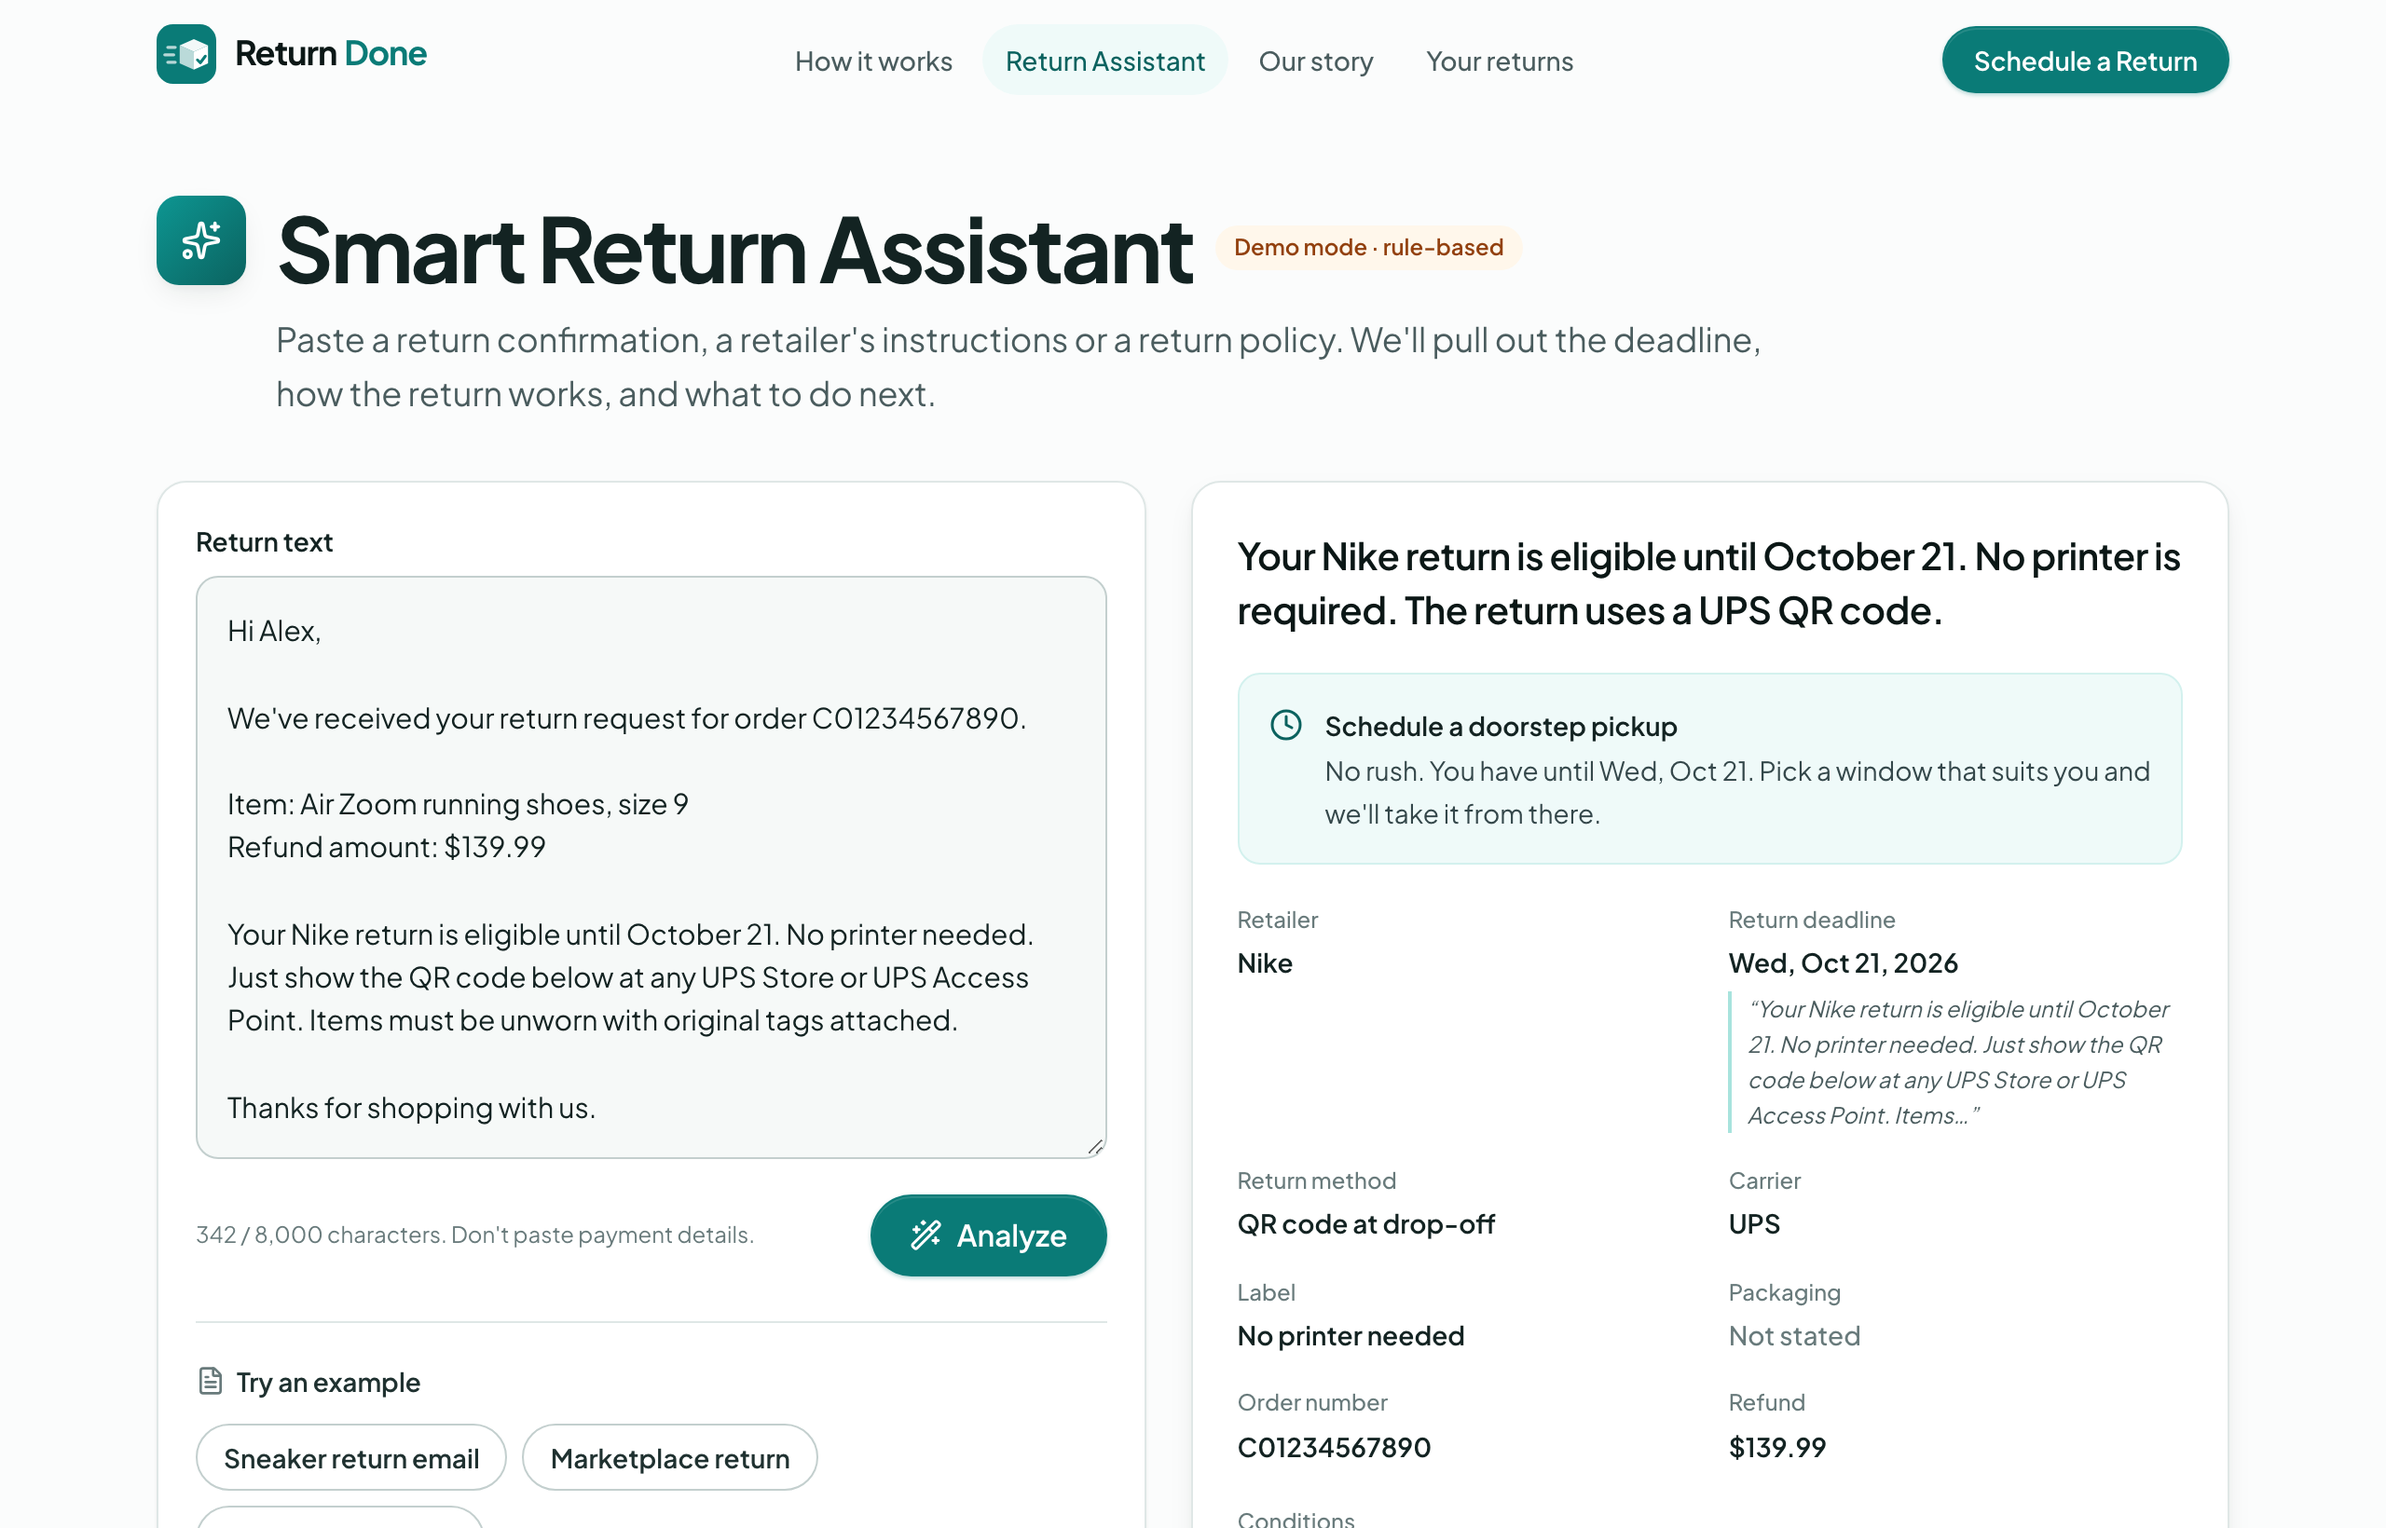
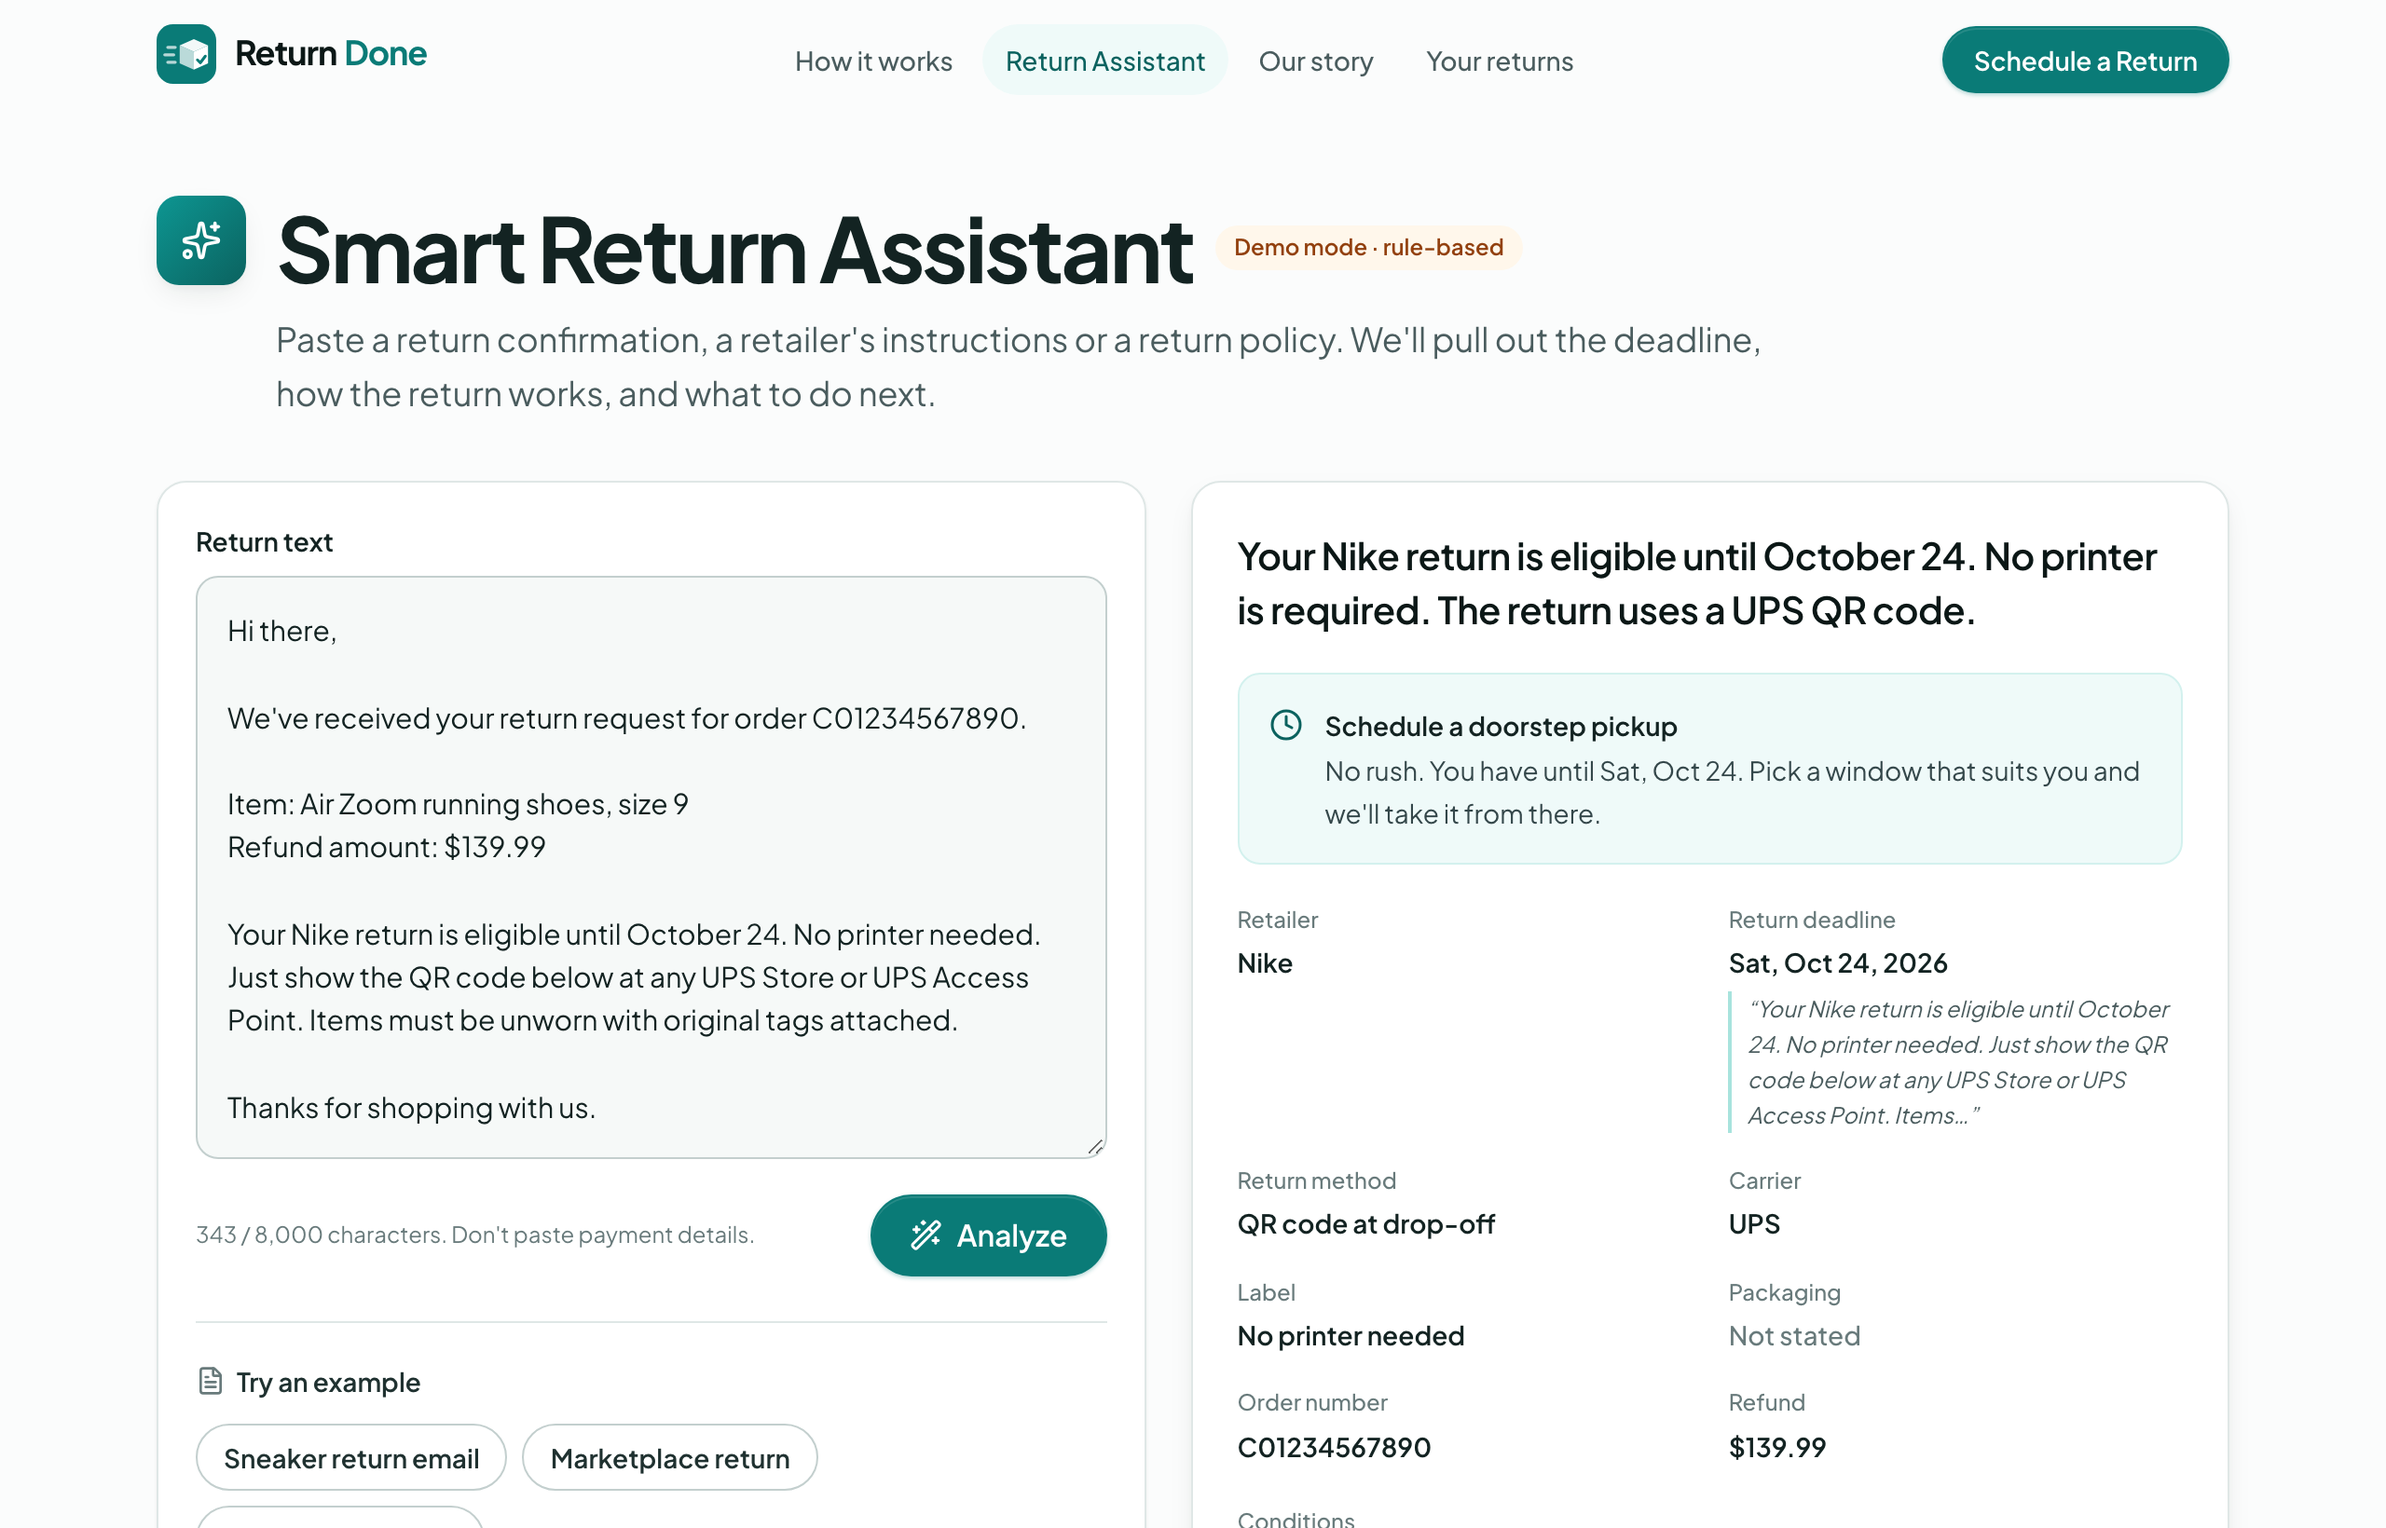
Remove placeholder names from the site, samples and tests
The demo dashboard greets "Welcome back", the assistant's sample email
opens "Hi there,", the hero preview shows a person icon instead of an
initial, and tests use neutral addresses. README screenshots are retaken.

diff --git a/src/lib/email/email.test.ts b/src/lib/email/email.test.ts
@@ -99,7 +99,7 @@ describe("sendConfirmationEmail", () => {
     vi.stubEnv("SMTP_USER", "me@gmail.com");
     vi.stubEnv("SMTP_PASS", "app-password");
     vi.stubEnv("EMAIL_ALLOWED_RECIPIENTS", "");
-    expect(await sendConfirmationEmail(record, "alex@example.com")).toEqual({
+    expect(await sendConfirmationEmail(record, "customer@example.com")).toEqual({
       status: "sent",
       mode: "smtp",
     });
@@ -108,14 +108,14 @@ describe("sendConfirmationEmail", () => {
   it("does nothing when no email settings exist (the default)", async () => {
     vi.stubEnv("EMAIL_MODE", "");
     vi.stubEnv("SMTP_HOST", "");
-    const result = await sendConfirmationEmail(record, "alex@example.com");
+    const result = await sendConfirmationEmail(record, "customer@example.com");
     expect(result.status).toBe("skipped");
     expect(sendMail).not.toHaveBeenCalled();
   });
 
   it("sends through Ethereal in test mode and returns a preview link", async () => {
     vi.stubEnv("EMAIL_MODE", "test");
-    const result = await sendConfirmationEmail(record, "alex@example.com");
+    const result = await sendConfirmationEmail(record, "customer@example.com");
     expect(result).toEqual({
       status: "sent",
       mode: "test",
@@ -123,7 +123,7 @@ describe("sendConfirmationEmail", () => {
     });
     expect(sendMail).toHaveBeenCalledWith(
       expect.objectContaining({
-        to: "alex@example.com",
+        to: "customer@example.com",
         subject: expect.stringContaining(record.id),
       }),
     );
@@ -146,13 +146,17 @@ describe("sendConfirmationEmail", () => {
     vi.stubEnv("EMAIL_MODE", "test");
     sendMail.mockRejectedValueOnce(new Error("SMTP down"));
     vi.spyOn(console, "error").mockImplementation(() => {});
-    expect(await sendConfirmationEmail(record, "alex@example.com")).toEqual({ status: "failed" });
+    expect(await sendConfirmationEmail(record, "customer@example.com")).toEqual({
+      status: "failed",
+    });
   });
 
   it("reports failure when SMTP mode is missing credentials", async () => {
     vi.stubEnv("EMAIL_MODE", "smtp");
     vi.stubEnv("SMTP_HOST", "");
     vi.spyOn(console, "error").mockImplementation(() => {});
-    expect(await sendConfirmationEmail(record, "alex@example.com")).toEqual({ status: "failed" });
+    expect(await sendConfirmationEmail(record, "customer@example.com")).toEqual({
+      status: "failed",
+    });
   });
 });

diff --git a/src/lib/return-draft.test.ts b/src/lib/return-draft.test.ts
@@ -25,13 +25,13 @@ const COMPLETE: ReturnDraft = {
   city: "Chicago",
   state: "il",
   zip: "60616",
-  contactEmail: "alex@gmail.com",
+  contactEmail: "customer@gmail.com",
 };
 
 describe("validateStep", () => {
   it("requires a retailer, and a name when choosing Other", () => {
     expect(validateStep("retailer", EMPTY_DRAFT, NOW)).toHaveProperty("retailerId");
-    const withEmail = { ...EMPTY_DRAFT, contactEmail: "alex@gmail.com" };
+    const withEmail = { ...EMPTY_DRAFT, contactEmail: "customer@gmail.com" };
     const other = validateStep("retailer", { ...withEmail, retailerId: "other" }, NOW);
     expect(other).toEqual({ customRetailerName: "Tell us the retailer's name" });
     expect(
@@ -115,7 +115,7 @@ describe("validateStep", () => {
     expect(validateStep("retailer", { ...COMPLETE, contactEmail: "" }, NOW)).toEqual({
       contactEmail: "Enter your email so we can send your confirmation",
     });
-    expect(validateStep("retailer", { ...COMPLETE, contactEmail: "alex@" }, NOW)).toEqual({
+    expect(validateStep("retailer", { ...COMPLETE, contactEmail: "customer@" }, NOW)).toEqual({
       contactEmail: "Enter a valid email address",
     });
     expect(validateStep("retailer", COMPLETE, NOW)).toEqual({});

diff --git a/src/components/components.test.tsx b/src/components/components.test.tsx
@@ -169,7 +169,7 @@ describe("ScheduleWizard", () => {
     await user.click(screen.getByRole("button", { name: "Continue" }));
     expect(await screen.findByText("Enter a valid email address")).toBeInTheDocument();
     await user.clear(screen.getByRole("textbox", { name: /Your email/ }));
-    await user.type(screen.getByRole("textbox", { name: /Your email/ }), "alex@gmail.com");
+    await user.type(screen.getByRole("textbox", { name: /Your email/ }), "customer@gmail.com");
     await user.type(screen.getByRole("searchbox", { name: "Search retailers" }), "zar");
     await user.click(screen.getByRole("radio", { name: /Zara/ }));
     await user.click(screen.getByRole("button", { name: "Continue" }));
@@ -230,7 +230,7 @@ describe("ScheduleWizard", () => {
         <ScheduleWizard />
       </ToastProvider>,
     );
-    await user.type(screen.getByRole("textbox", { name: /Your email/ }), "alex@gmail.com");
+    await user.type(screen.getByRole("textbox", { name: /Your email/ }), "customer@gmail.com");
     await user.click(screen.getByRole("radio", { name: /Nike/ }));
     await user.click(screen.getByRole("button", { name: "Continue" }));
     await user.type(await screen.findByRole("textbox", { name: /^Item/ }), "Sneakers");

diff --git a/src/components/returns/DashboardView.tsx b/src/components/returns/DashboardView.tsx
@@ -7,7 +7,6 @@ import { Modal } from "@/components/ui/Modal";
 import { Badge, EmptyState, Skeleton } from "@/components/ui/primitives";
 import { useToast } from "@/components/ui/Toast";
 import { formatDate, relativeDayLabel } from "@/lib/dates";
-import { DEMO_ACCOUNT } from "@/lib/demo-data";
 import { formatMoney } from "@/lib/pricing";
 import { isComplete, sortReturns, summarizeReturns } from "@/lib/returns";
 import { returnsStore, useReturns } from "@/lib/returns-store";
@@ -52,7 +51,7 @@ export function DashboardView() {
       <header className={styles.header}>
         <div>
           <p className={styles.greeting}>
-            Hi {DEMO_ACCOUNT.firstName} <Badge tone="neutral">Demo account</Badge>
+            Welcome back <Badge tone="neutral">Demo account</Badge>
           </p>
           <h1 className={styles.title}>Your Returns</h1>
         </div>

diff --git a/src/components/landing/HeroVisual.tsx b/src/components/landing/HeroVisual.tsx
@@ -1,4 +1,4 @@
-import { CalendarClock, Check, MapPin } from "lucide-react";
+import { CalendarClock, Check, MapPin, User } from "lucide-react";
 import styles from "./HeroVisual.module.css";
 
 const STEPS = [
@@ -17,7 +17,9 @@ export function HeroVisual() {
       <div className={styles.phone}>
         <div className={styles.phoneTop}>
           <span>Your Returns</span>
-          <span className={styles.avatar}>A</span>
+          <span className={styles.avatar}>
+            <User />
+          </span>
         </div>
 
         <div className={styles.card}>

diff --git a/src/lib/demo-data.ts b/src/lib/demo-data.ts
@@ -8,12 +8,6 @@ import {
   type ReturnStatus,
 } from "./returns";
 
-/** Demo account shown on the dashboard. Not a real person. */
-export const DEMO_ACCOUNT = {
-  firstName: "Alex",
-  email: "alex@demo.returndone.app",
-} as const;
-
 export const DEMO_ADDRESS: PickupAddress = {
   line1: "10 W 35th St",
   city: "Chicago",

diff --git a/src/app/api/routes.test.ts b/src/app/api/routes.test.ts
@@ -24,7 +24,7 @@ const validReturn = () => ({
   retailerName: "Nike",
   itemDescription: "Air Max sneakers",
   itemCount: 1,
-  contactEmail: "alex@gmail.com",
+  contactEmail: "customer@gmail.com",
   pickup: {
     date: toISODate(addDays(new Date(), 3)),
     windowId: "10-12",

diff --git a/src/lib/assistant/samples.ts b/src/lib/assistant/samples.ts
@@ -19,7 +19,7 @@ export function buildSamples(now: Date): AssistantSample[] {
     {
       id: "qr-email",
       label: "Sneaker return email",
-      text: `Hi Alex,
+      text: `Hi there,
 
 We've received your return request for order C01234567890.
 

diff --git a/src/components/landing/HeroVisual.module.css b/src/components/landing/HeroVisual.module.css
@@ -58,6 +58,11 @@
   font-size: var(--text-xs);
 }
 
+.avatar svg {
+  width: 15px;
+  height: 15px;
+}
+
 .card {
   display: grid;
   gap: 12px;
